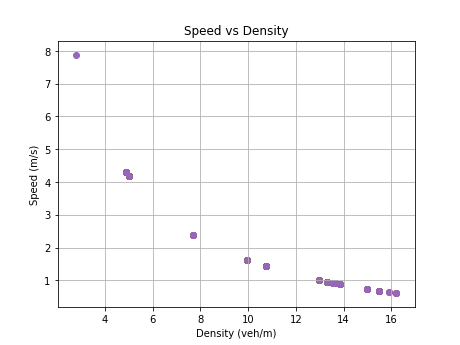
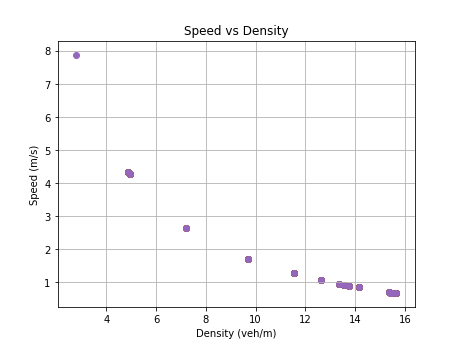
Fix random seeds, corresponding data and figures

diff --git a/itsc24-rr-tutorial-example/environment.py b/itsc24-rr-tutorial-example/environment.py
@@ -13,6 +13,7 @@ from car import Car
 
 matplotlib.use('Agg')
 matplotlib.use('PS')
+random.seed(175175175)
 np.random.seed(175175175)
 
 
